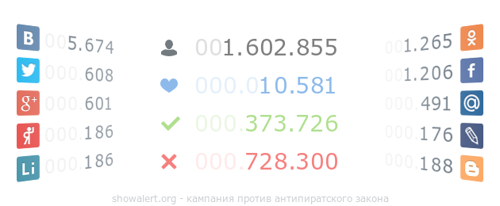
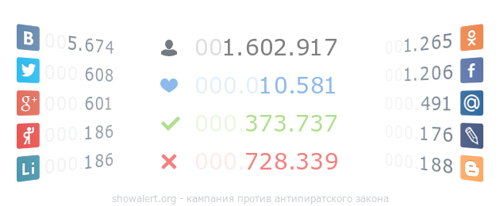
some updates

Changed region(s): [[0.57, 0.1748, 0.69, 0.2913], [0.6, 0.7282, 0.69, 0.8447], [0.6, 0.5534, 0.69, 0.6408]]

diff --git a/votes.js b/votes.js
@@ -1,1 +1,1 @@
-window.lk.votes(23772)
+window.lk.votes(23773)
